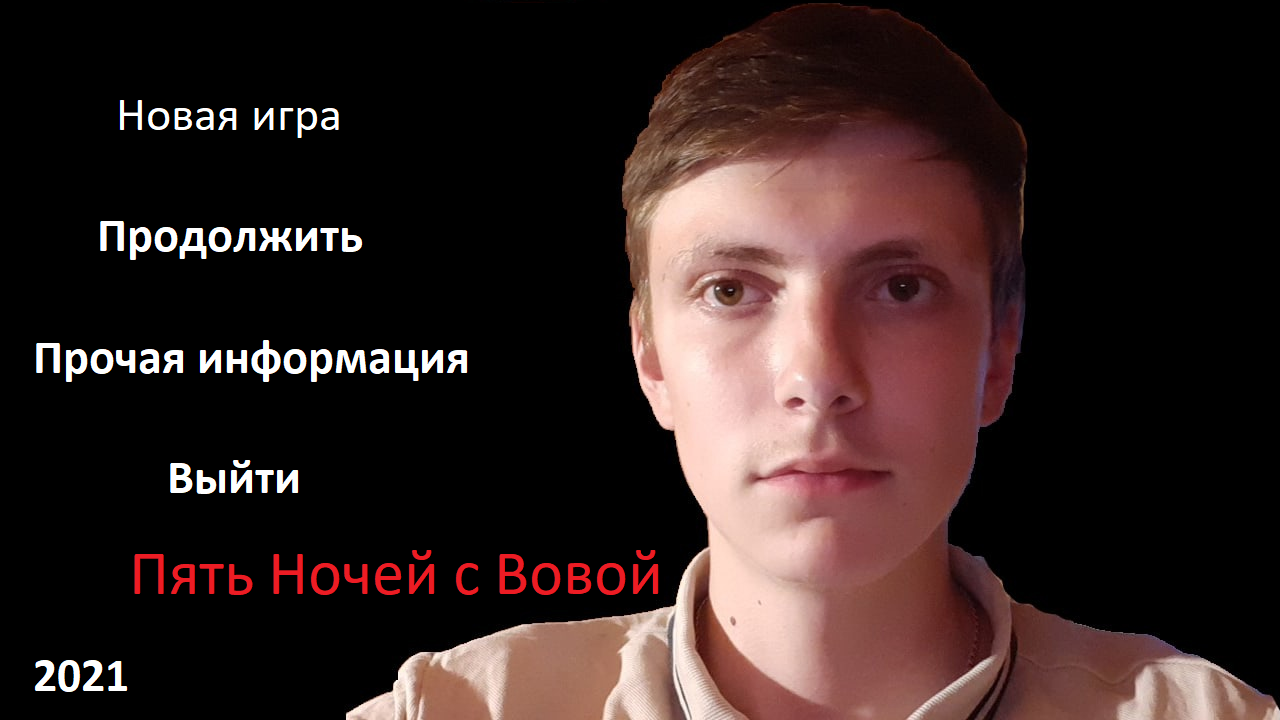
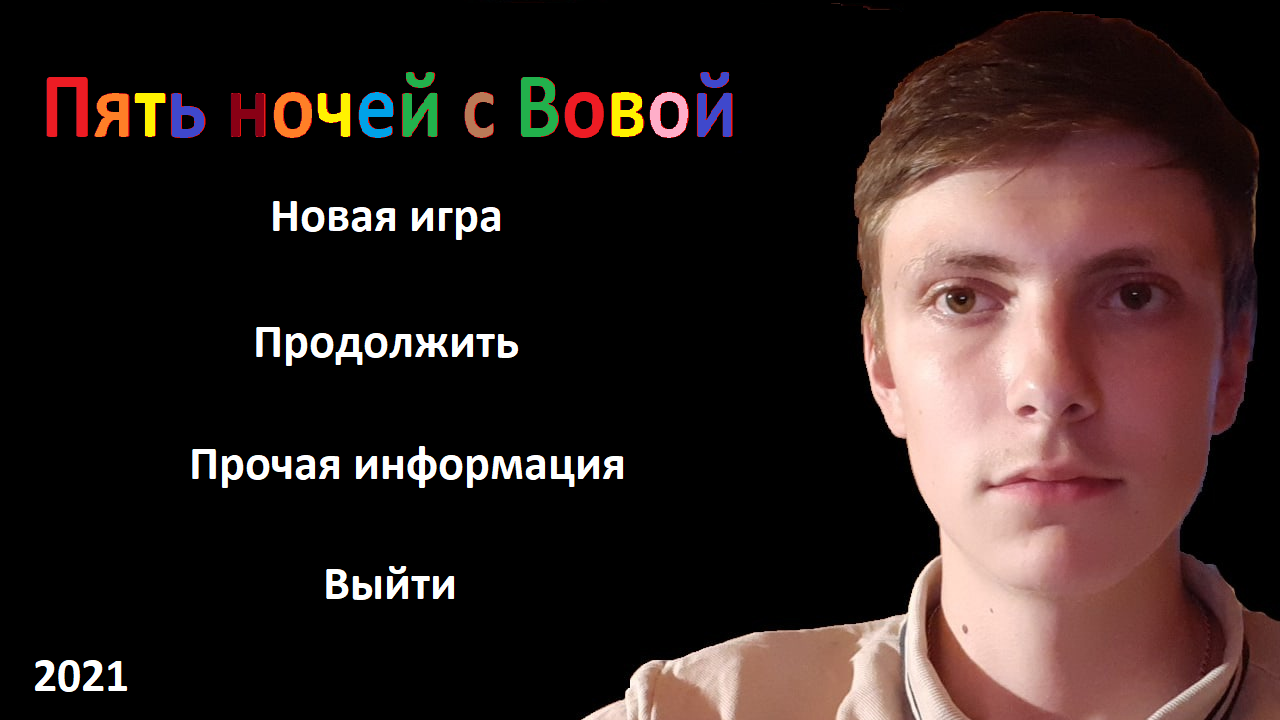
better design

diff --git a/fnav.py b/fnav.py
@@ -33,6 +33,7 @@ napad = pygame.image.load("./data/napad.png")
 mask = pygame.image.load("./data/mask.png")
 maskbut = pygame.image.load("./data/maskbut.png")
 baterry = pygame.image.load("./data/baterry.png")
+palka = pygame.image.load("./data/pal.png")
 warning = pygame.image.load("./data/warning.png")
 red = pygame.image.load("./data/red.png")
 am = pygame.image.load("./data/6am.png")
@@ -91,8 +92,8 @@ def button():
 
 toks = 0 #Токсичность
 
-batt = 4000
-batt2 = 4000
+batt = 3000
+batt2 = 6
 
 clock = 0 #время
 
@@ -100,7 +101,13 @@ clock = 0 #время
 level = 1
 levell = 1
 
+xpal = []
+palind = 280
+kolpal = 5
 
+for i in range (0,6):
+    palind += 24
+    xpal.append(palind)
 
 beg = True #пока beg = True цикл меню будет работать
 
@@ -120,7 +127,7 @@ while beg == True: #цикл меню
         if e.type == pygame.MOUSEBUTTONUP: #Нажатие клавиши мыши
             x,y = e.pos
            
-            if inter2 (x,y,103,103,1,250,30): #Нажатие кнопки "новая игра"
+            if inter2 (x,y,272,200,1,250,30): #Нажатие кнопки "новая игра"
                 button() #звук кнопки
                 beg = False #Выход из цикла меню
                 level = 1 #возвращаемся в 1 ночь
@@ -136,11 +143,11 @@ while beg == True: #цикл меню
                 screen.blit(night, (500,350))
                 window.blit(screen, (0,0))
                 pygame.display.update()
-                time.sleep (3)
+                #time.sleep (3)
                 
                 gamebegin = pygame.mixer.stop()
                 
-            if inter2 (x,y,99,219,1,266,30): #Нажатие кнопки продолжить
+            if inter2 (x,y,256,326,1,266,30): #Нажатие кнопки продолжить
                 beg = False
                 button()
                 num = pygame.font.SysFont('monospace', 50)
@@ -153,7 +160,7 @@ while beg == True: #цикл меню
                 
                 gamebegin = pygame.mixer.stop()
                 
-            if inter2 (x,y,163,460,1,144,30): #Нажатие кнопки выход
+            if inter2 (x,y,326,569,1,144,30): #Нажатие кнопки выход
                 beg = False
                 Begin = False
             
@@ -343,7 +350,7 @@ class room(): #Хозяин дачи сидит у себя в комнате
                         batt -= 1
         
                         if batt % 500 == 0:
-                            batt2 = batt
+                            batt2 = batt // 500
                             
                            
                             
@@ -357,7 +364,9 @@ class room(): #Хозяин дачи сидит у себя в комнате
                         
                         if clock // 4000 == 6:
                             cam = False
-                           
+                          
+                        if toks != 0 and maska % 2 != 0:
+                            toks -= 1                          
                         
                         screen.fill ((0,140,0)) 
                        
@@ -372,23 +381,21 @@ class room(): #Хозяин дачи сидит у себя в комнате
                                 cammera = num.render('' + str(i+1) , True, (0, 0, 0))
                                 
                             if poz[i] == True and vovapoz == i and i == 2:
-                                num = pygame.font.SysFont('monospace', 50)
-                                cammera = num.render('' + str(i+1) , True, (0, 0, 0))
                                 
                                 screen.blit(baterry, (300,400))
-                                screen.blit(bat, (315,410))
-                                if inter1 (x,y,300,400,1,150):
+                                
+                                if inter1 (x,y,300,400,1,150) and batt2 < 6: #Нажатие на кнопку зарядки батареи
+                                    pygame.mixer.init()
+                                    box = pygame.mixer.Sound('./data/Blip3.wav')
+                                    box.play()
+                                    batt2 += 1
+                                    batt += 500
+                                    x = 0
+                                    y = 0
                                     
-                                    
-                                    if batt2 < 4000:
-                                        batt2 += 500
-                                        batt += 500
-                                        x = 0
-                                        y = 0
-                                    num = pygame.font.SysFont('monospace', 50)
-                                    bat = num.render('' + str(batt2) , True, (237, 28, 36))
-                                    screen.blit(baterry, (300,400))
-                                    screen.blit(bat, (315,410))
+                               
+                                for i in range (0,batt2):
+                                    screen.blit(palka, (xpal[i],405))
                                 
                                 
                             if poz[i] == True and vovapoz != i:
@@ -398,24 +405,27 @@ class room(): #Хозяин дачи сидит у себя в комнате
                                 
                                 if i == 2:
                                     
-                                    if inter1 (x,y,300,400,1,150):
+                                    if inter1 (x,y,300,400,1,150) and batt2 < 6: #Нажатие на кнопку зарядки батареи
                                         pygame.mixer.init()
                                         box = pygame.mixer.Sound('./data/Blip3.wav')
                                         box.play()
-                                        if batt2 < 4000:
-                                            batt2 += 500
-                                            batt += 500
+                                        batt2 += 1
+                                        batt += 500
                                         x = 0
                                         y = 0
-                                    num = pygame.font.SysFont('monospace', 50)
-                                    bat = num.render('' + str(batt2) , True, (237, 28, 36))
+                                        
+                                        
+                                    
                                     screen.blit(baterry, (300,400))
-                                    screen.blit(bat, (315,410))
+                                   
+                                    
+                                    for i in range (0,batt2):
+                                        screen.blit(palka, (xpal[i],405))
                                     
                             
                             
                                     
-                        if batt2 <= 2000:
+                        if batt2 <= 3:
                             screen.blit(warning, (1100,600))   
                         
                         
@@ -433,7 +443,7 @@ class room(): #Хозяин дачи сидит у себя в комнате
         
         
         if batt % 500 == 0:
-            batt2 = batt
+            batt2 = batt // 500
                         
         if vovapoz != -2:
             pv += 1
@@ -484,58 +494,11 @@ class room(): #Хозяин дачи сидит у себя в комнате
                 pygame.display.update()
                 time.sleep(24)
                 winn = pygame.mixer.stop()
-                
-            
-                
-            pygame.mixer.init()
-            buzzlight = pygame.mixer.Sound('./data/buzzlight.wav')
-            buzzlight.play(loops=-1)
-                
-            if level == 1:
-                nspeed = 1000
-            if level == 2:
-                nspeed = 800
-            if level == 3:
-                nspeed = 600
-            if level == 4:
-                nspeed = 400
-            if level == 5:
-                nspeed = 200
-            speed = nspeed
-            
-            if level == 1:
-                pygame.mixer.init()
-                night1 = pygame.mixer.Sound('./data/Night1.wav')
-                night1.play() 
-                  
-                
-                
-            if level == 2:
-                pygame.mixer.init()
-                night1 = pygame.mixer.Sound('./data/Night2.wav')
-                night1.play() 
-                  
-                 
-                
-            if level == 3:
-                pygame.mixer.init()
-                night1 = pygame.mixer.Sound('./data/Night3.wav')
-                night1.play() 
-                  
-                
-                
-            if level == 4:
-                pygame.mixer.init()
-                night1 = pygame.mixer.Sound('./data/Night4.wav')
-                night1.play() 
                   
                 
             
-            pygame.mixer.init()
-            buzzlight = pygame.mixer.Sound('./data/buzzlight.wav')
-            buzzlight.play(loops=-1)
+           
             
-            xphone = 1000
             
         screen.fill ((0,140,0)) 
         
@@ -649,33 +612,45 @@ class room(): #Хозяин дачи сидит у себя в комнате
             gamebegin = pygame.mixer.Sound('./data/begin.wav')
             gamebegin.play(loops=-1)
             
+            batt = 3000
+            batt2 = 6
+            
+            xpal = []
+            palind = 280
+            
+            xphone = 1000
+
+            for i in range (0,6):
+                palind += 24
+                xpal.append(palind)
+            
             while beg == True:
                 for e in pygame.event.get():
                     if e.type == pygame.MOUSEBUTTONUP: #Нажатие клавиши мыши
                         x,y = e.pos
                        
-                        if inter2 (x,y,103,103,1,250,30):
-                            button()
-                            beg = False
-                            begin = True
-                            level = 1
+                        if inter2 (x,y,272,200,1,250,30): #Нажатие кнопки "новая игра"
+                            button() #звук кнопки
+                            beg = False #Выход из цикла меню
+                            level = 1 #возвращаемся в 1 ночь
                             levell = level
                             f = open("./data/xxx.txt", "w")
                             f.write(str(levell))
                             f.close()
+                            
                             num = pygame.font.SysFont('monospace', 50)
                             night = num.render('Night: ' + str(level) , True, (255, 255, 255))
+                            
                             screen.fill ((0,0,0))
                             screen.blit(night, (500,350))
                             window.blit(screen, (0,0))
                             pygame.display.update()
-                            time.sleep (3)
+                            #time.sleep (3)
                             
                             gamebegin = pygame.mixer.stop()
                             
-                        if inter2 (x,y,99,219,1,266,30):
+                        if inter2 (x,y,256,326,1,266,30): #Нажатие кнопки продолжить
                             beg = False
-                            begin = True
                             button()
                             num = pygame.font.SysFont('monospace', 50)
                             night = num.render('Night: ' + str(level) , True, (255, 255, 255))
@@ -687,7 +662,7 @@ class room(): #Хозяин дачи сидит у себя в комнате
                             
                             gamebegin = pygame.mixer.stop()
                             
-                        if inter2 (x,y,163,460,1,144,30):
+                        if inter2 (x,y,326,569,1,144,30): #Нажатие кнопки выход
                             beg = False
                             Begin = False
                         
@@ -696,7 +671,53 @@ class room(): #Хозяин дачи сидит у себя в комнате
                 window.blit(screen, (0,0))
                 pygame.display.update()
                 
-        if batt2 <= 2000:
+                
+                
+            if level == 1:
+                nspeed = 1000
+            if level == 2:
+                nspeed = 800
+            if level == 3:
+                nspeed = 600
+            if level == 4:
+                nspeed = 400
+            if level == 5:
+                nspeed = 200
+            speed = nspeed
+            
+            if level == 1:
+                pygame.mixer.init()
+                night1 = pygame.mixer.Sound('./data/Night1.wav')
+                night1.play() 
+                  
+                
+                
+            if level == 2:
+                pygame.mixer.init()
+                night1 = pygame.mixer.Sound('./data/Night2.wav')
+                night1.play() 
+                  
+                 
+                
+            if level == 3:
+                pygame.mixer.init()
+                night1 = pygame.mixer.Sound('./data/Night3.wav')
+                night1.play() 
+                  
+                
+                
+            if level == 4:
+                pygame.mixer.init()
+                night1 = pygame.mixer.Sound('./data/Night4.wav')
+                night1.play() 
+                  
+                
+            
+            pygame.mixer.init()
+            buzzlight = pygame.mixer.Sound('./data/buzzlight.wav')
+            buzzlight.play(loops=-1)
+                
+        if batt2 <= 3:
             screen.blit(warning, (1100,600)) 
             
             
